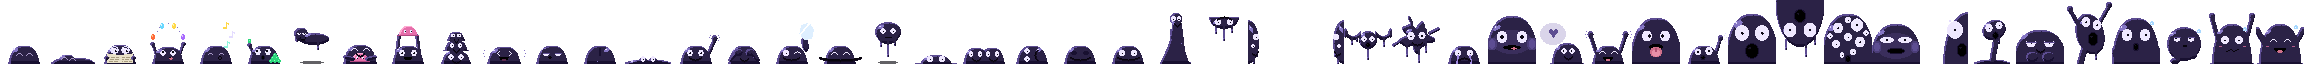
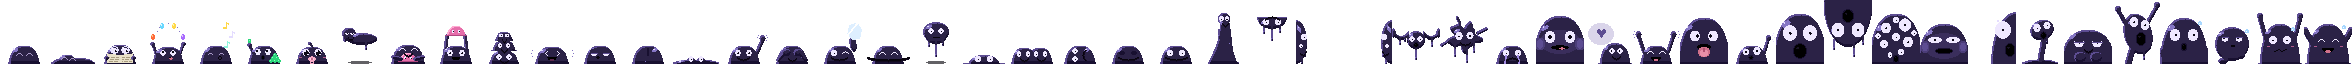
The Hall of Reflections: one of the calm looks is a baby now: big innocent eyes, a curl, a pacifier

Changed region(s): [[0.0, 0.0, 1.0, 1.0], [0.0625, 0.5312, 0.0938, 0.625], [0.0625, 0.375, 0.0938, 0.4375]]

diff --git a/MirrorTrial.js b/MirrorTrial.js
@@ -99,13 +99,13 @@ class MirrorTrial extends Phaser.Scene {
         ['LOOKING FROM ABOVE', 'Hold TAB to step out of your own eyes, up behind yourself: you, the panes round you with your chalk and marks, your slimes. You never see them this way, except where a sentry pings, and while you\'re out of your eyes nothing watches them. W S step, A D turn, ESC leaves the hall.'],
     ];
     // their looks (mt_twin, a strip: scratchpad art states.mjs --game): asleep; seen from afar, by their mood: calm (reading in
-    // glasses, juggling your gems, whistling, counting glorps, lounging...), playful (waving, peekaboo, copying you...), hunting
+    // glasses, juggling your gems, whistling, counting glorps, a baby with a pacifier, lounging...), playful (waving, peekaboo, copying you...), hunting
     // (staring, up the walls, splatted on one, weeping...); right behind a pane between you, up against the glass
     // (face squashed on it, a heart in its breath, waving in, licking it, knocking); two away (your face, dropped down, peeking
     // in...); one away, caught in time just before it got you (mid-reach, sneaking, mid-BOO, going for a hug, BOO); FACE, the one
     // a prank slams into you; CORRIDOR, the ones holding a corridor's walls (only where it runs toward you); WALLED, the ones
     // flat on the wall right behind them (only where there is one)
-    static POSES = { SLEEP: [0, 1], calm: [2, 13], play: [14, 22], hunt: [23, 30], GLASS: [31, 35], NEAR: [36, 42], CLOSE: [43, 47], FACE: 36, CORRIDOR: [26, 27, 28], WALLED: [29] };
+    static POSES = { SLEEP: [0, 1], calm: [2, 14], play: [15, 23], hunt: [24, 31], GLASS: [32, 36], NEAR: [37, 43], CLOSE: [44, 48], FACE: 37, CORRIDOR: [27, 28, 29], WALLED: [30] };
     static TEX = ['mt_wall', 'mt_glass', 'mt_mirror', 'mt_broken', 'mt_self', 'mt_twin', 'mt_shard', 'mt_pickup', 'mt_decoy', 'mt_mark_m', 'mt_mark_g', 'mt_sentry', 'mt_glorp', 'mt_items'];
     static BAYER = [0, 8, 2, 10, 12, 4, 14, 6, 3, 11, 1, 9, 15, 7, 13, 5].map(v => (v + 0.5) / 16 - 0.5);
 
